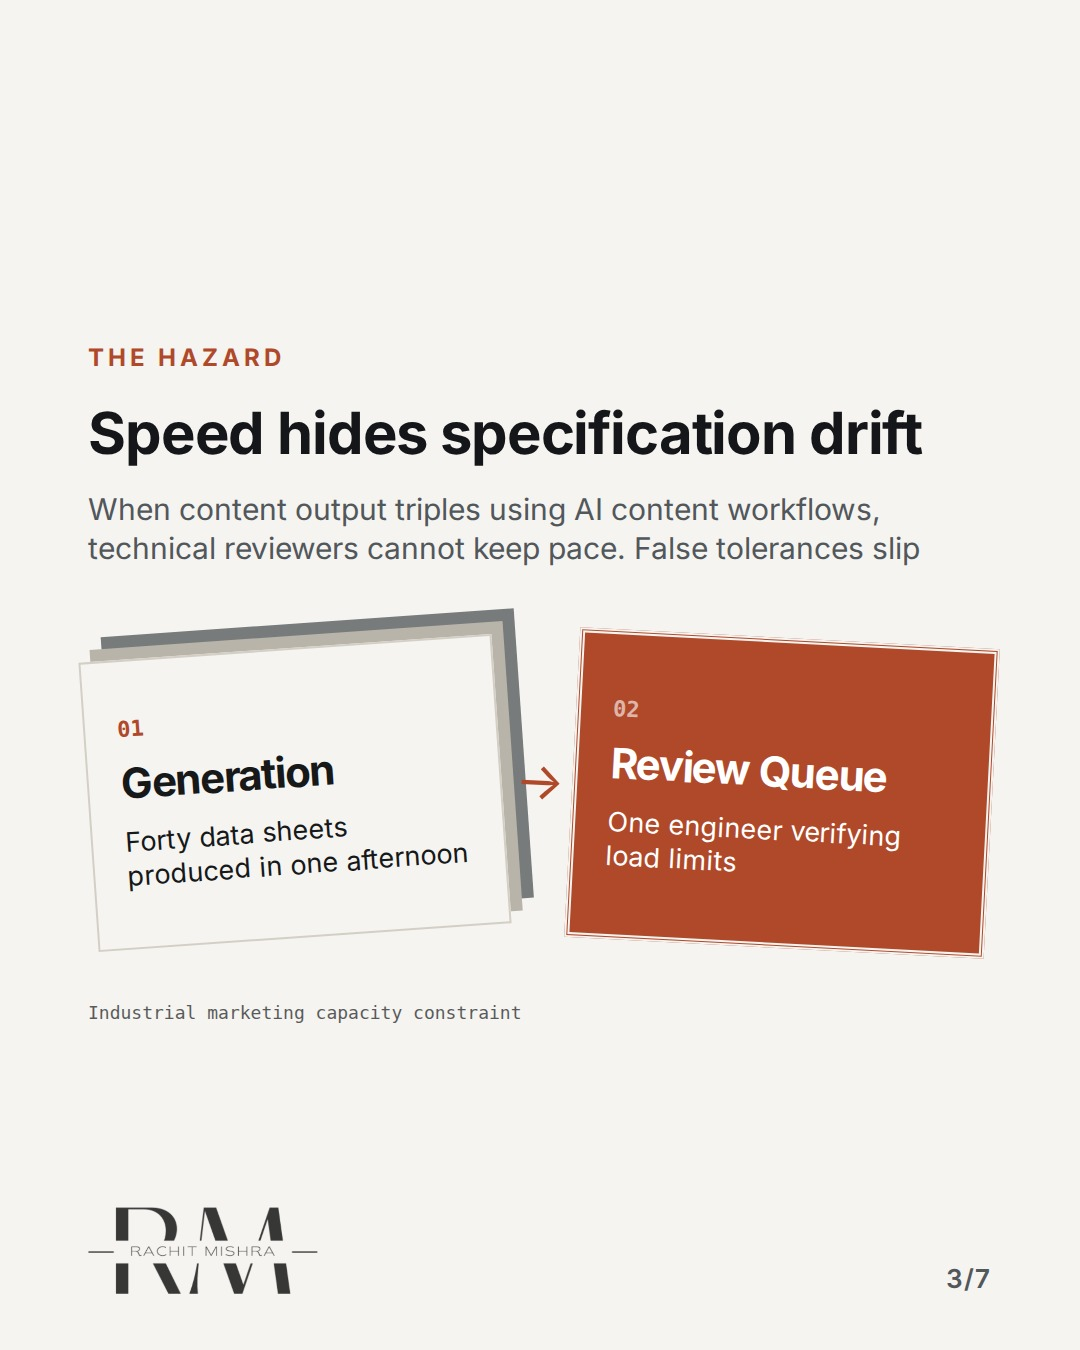
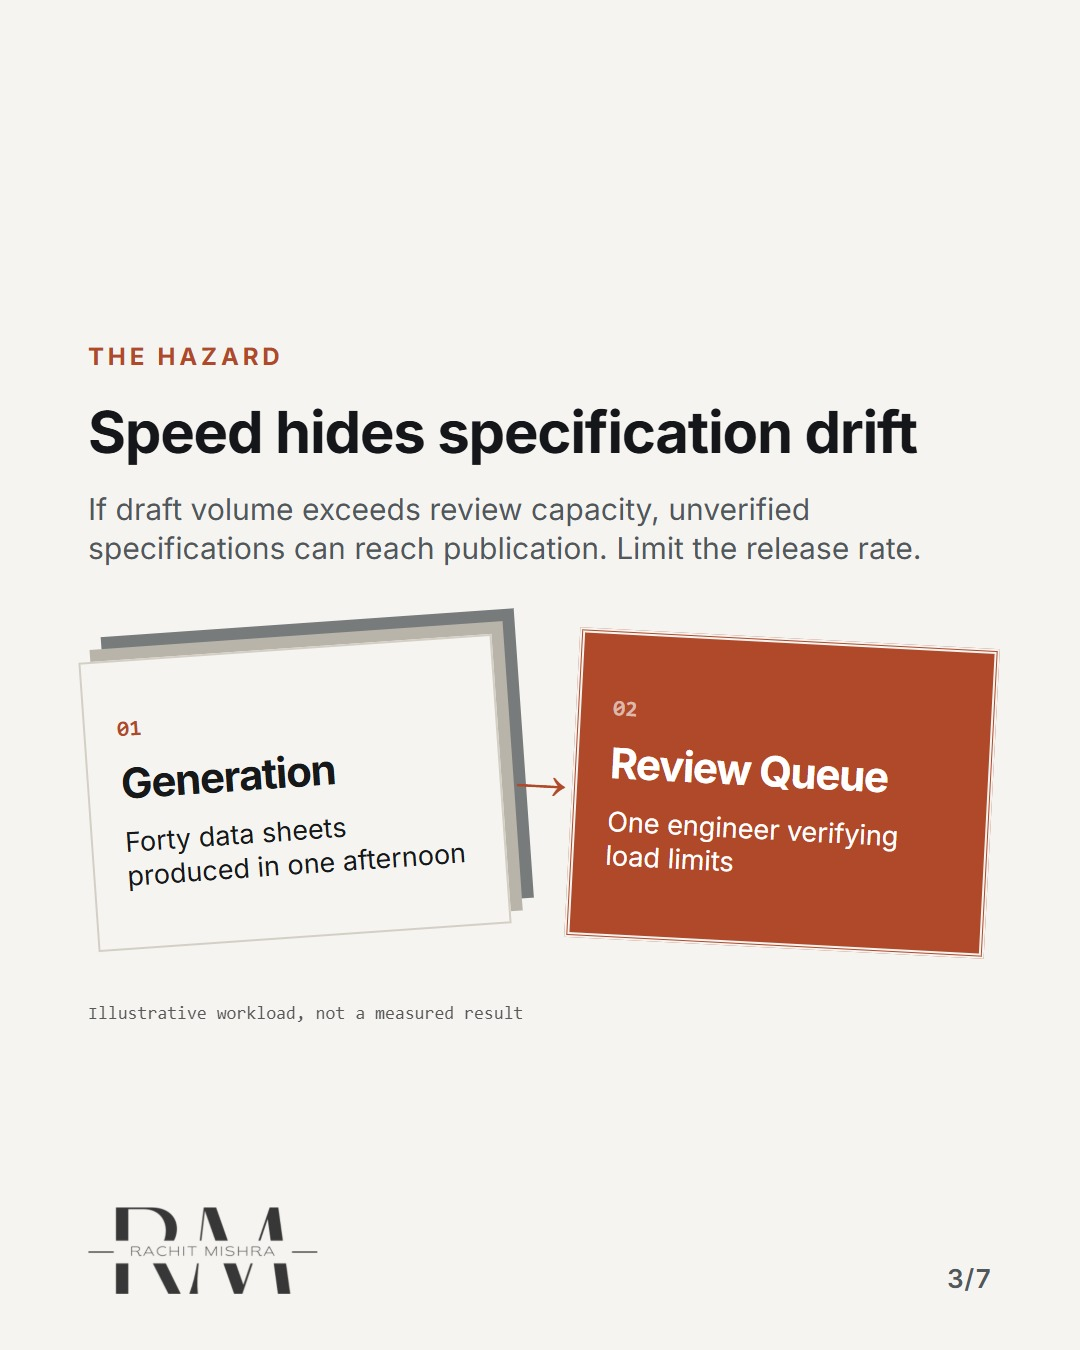
Review October batch and preserve complete generated copy

diff --git a/agent/generate.py b/agent/generate.py
@@ -85,8 +85,10 @@ Return only the JSON object. Schema:
 Non-negotiable opening contract: `hook` is a short tension-led claim, not a
 topic label. It must exactly equal Reel beat 1 `onscreen` text and be the first
 words of Reel beat 1 `voiceover`; for a carousel it must equal slide 1's
-headline. The caption must start with it. Put the primary keyword naturally
-elsewhere in the first 125 caption characters.
+headline. The caption's first line must contain ONLY the hook, followed by
+two newline characters. Put the primary keyword naturally in the next
+sentence, within the first 125 caption characters. Interior carousel bodies
+must be complete sentences of at most 120 characters; rewrite, never truncate.
 
 Do not use an unsupported number. Supply the required `evidence` object with
 the proof or usable framework that earns the claim.
@@ -120,42 +122,31 @@ def _normalise_generated_opening(post: dict) -> dict:
 
     Models commonly add punctuation, markdown or a preamble to an otherwise
     strong hook. That is not an editorial reason to throw away an entire
-    weekly batch. Keep the model's copy, but make the required first line
-    canonical and make sure its chosen search phrase appears early enough.
+    weekly batch. Keep the model's copy and make the first line canonical.
+    Keyword placement and shortening remain editorial correction tasks.
     """
     hook = str(post.get("hook") or "").strip()
     caption = str(post.get("caption") or "").strip()
-    keyword = str(post.get("primary_keyword") or "").strip()
     if hook:
         lines = caption.splitlines()
         while lines and not lines[0].strip():
             lines.pop(0)
         if lines:
-            # Replace rather than prepend: the model's opening paraphrase
-            # would otherwise repeat the hook and weaken the caption.
-            lines[0] = hook
+            opening = lines[0].strip().strip('*')
+            if opening.casefold().startswith(hook.casefold()):
+                remainder = opening[len(hook):].lstrip('.!? :;—–-')
+                lines[0:1] = [hook] + (["", remainder] if remainder else [])
+            else:
+                # Preserve different opening copy so correction can rewrite
+                # it without silently losing the first paragraph.
+                lines[0:0] = [hook, ""]
         else:
             lines = [hook]
         caption = "\n".join(lines).strip()
 
-        early_caption = re.sub(r"\s+", " ", caption[:125]).casefold()
-        if keyword and keyword.casefold() not in early_caption:
-            # A short bridge is more natural than a keyword label, and keeps
-            # the remaining model-written caption intact.
-            remainder = "\n".join(lines[1:]).strip()
-            bridge = f"In {keyword}, this is the decision that changes the outcome."
-            caption = f"{hook}\n\n{bridge}" + (f"\n\n{remainder}" if remainder else "")
         post["caption"] = caption
 
-    # Carousel bodies become text inside an infographic. Trim only the
-    # exceptional overflow at a word boundary so a single verbose sentence
-    # cannot block the whole batch after the model has already self-corrected.
-    if post.get("format") == "carousel":
-        for slide in post.get("slides") or []:
-            body = str(slide.get("body") or "").strip()
-            if len(body) > 120:
-                clipped = body[:120].rsplit(" ", 1)[0].rstrip(" ,;:-")
-                slide["body"] = clipped or body[:120]
+    # Never truncate prose to pass validation: the model must rewrite it.
     return post
 
 

diff --git a/tests/test_schema.py b/tests/test_schema.py
@@ -71,13 +71,19 @@ class HookContractTests(unittest.TestCase):
         post["caption"] = "**Stop paying agencies for asset volume.**\n\nJudgment beats asset count."
         post = _normalise_generated_opening(post)
         self.assertEqual(post["caption"].splitlines()[0], post["hook"])
-        self.assertIn(post["primary_keyword"], post["caption"][:125])
+        self.assertNotIn("this is the decision", post["caption"])
         self.assertIn("Judgment beats asset count.", post["caption"])
 
-    def test_generated_carousel_body_is_trimmed_for_visual_legibility(self):
+    def test_generated_carousel_body_is_preserved_for_editorial_correction(self):
         post = {"format": "carousel", "slides": [{"body": "word " * 30}]}
         post = _normalise_generated_opening(post)
-        self.assertLessEqual(len(post["slides"][0]["body"]), 120)
+        self.assertEqual(post["slides"][0]["body"], "word " * 30)
+
+    def test_opening_preserves_same_line_following_sentence(self):
+        post = reel_post()
+        post["caption"] = post["hook"] + ". AI agency retainers need a scope review."
+        result = _normalise_generated_opening(post)
+        self.assertEqual(result["caption"], post["hook"] + "\n\nAI agency retainers need a scope review.")
 
     def test_topic_label_is_rejected(self):
         post = reel_post()

diff --git a/content/queue/2026-10-05/wed-2000-aigovernanceformarketingteams/POST.md b/content/queue/2026-10-05/wed-2000-aigovernanceformarketingteams/POST.md
@@ -21,37 +21,37 @@
 
 **2.** The wrong gate
 ### IT security clears the tool, not the output
-Enterprise AI adoption usually stalls because legal and IT run a data audit. They check where prompts go. They never
+Data security approval does not verify generated product claims. Assign an owner for technical accuracy.
 
 ![slide 2](slide-02.jpg)
 
 **3.** The hazard
 ### Speed hides specification drift
-When content output triples using AI content workflows, technical reviewers cannot keep pace. False tolerances slip
+If draft volume exceeds review capacity, unverified specifications can reach publication. Limit the release rate.
 
 ![slide 3](slide-03.jpg)
 
 **4.** The standard
 ### Marketing automation needs strict boundary rules
-Generative tools excel at syntax but fail at physics. Without negative constraints on technical claims, teams end up
+Define which tasks AI may assist with. Require approved source documents for every technical claim.
 
 ![slide 4](slide-04.jpg)
 
 **5.** The protocol
-### Four checks before any AI copy goes live
-Run every automated draft through a mandatory verification sequence before publication. Skip one, and your liability
+### Two checks before any AI copy goes live
+Check technical claims against approved documents, then check tone. Record who approved the final draft.
 
 ![slide 5](slide-05.jpg)
 
 **6.** The threshold
 ### Governance is a queueing problem
-Brand governance is not a design problem or a legal restriction. It is managing the velocity of unverified output
+Match publication volume to the time available for technical review. Keep unverified drafts out of the release queue.
 
 ![slide 6](slide-06.jpg)
 
 **7.** The principle
 ### AI governance is a verification pipeline
-The point of AI governance for marketing teams is not restricting tools. It is matching publication speed to the actual
+Treat generated copy as a draft. Give reviewers enough time to verify it before publication.
 
 ![slide 7](slide-07.jpg)
 
@@ -60,7 +60,7 @@ The point of AI governance for marketing teams is not restricting tools. It is m
 ```
 AI governance is failing your marketing team.
 
-In AI governance for marketing teams, this is the decision that changes the outcome.
+AI governance for marketing teams needs an owner for technical accuracy.
 
 Most enterprises treat AI risk as an IT issue. They worry about data privacy while their teams use marketing automation to generate unverified technical specifications for heavy machinery.
 
@@ -69,8 +69,6 @@ When a consumer brand hallucinates a feature, customer support handles it. When 
 Set the boundary rules before you scale the output.
 
 Send this to whoever is defending AI content standards this quarter.
-
-[enterprise ai adoption, ai governance for marketing teams, marketing operations, b2b marketing]
 
 #aimarketing #martech #aigovernance
 ```

diff --git a/content/queue/2026-10-05/sat-1030-defending-a-marketing-budget/POST.md b/content/queue/2026-10-05/sat-1030-defending-a-marketing-budget/POST.md
@@ -21,31 +21,31 @@
 
 **2.** The finance translation
 ### Reach cannot be converted into cash flow on demand.
-When a CFO asks where last quarter's impressions went, saying brand recall will not stop a budget cut. Finance measures
+Connect awareness to commercial outcomes. Reach alone cannot explain cash flow or protect a budget.
 
 ![slide 2](slide-02.jpg)
 
 **3.** The sales disconnect
 ### Sales teams do not care about top-of-funnel volume.
-More leads from unqualified accounts only create administrative drag for field engineers. Sales wants fewer, warmer
+Unqualified leads create work for field engineers. Measure qualified opportunities as well as lead volume.
 
 ![slide 3](slide-03.jpg)
 
 **4.** The pivot
 ### Tie your brand spend to procurement risk reduction.
-Industrial buyers do not buy because they saw an ad. They buy because regulatory compliance and vendor risk are lower
+Show how your work helps buyers assess compliance, delivery reliability and vendor risk.
 
 ![slide 4](slide-04.jpg)
 
 **5.** The budget defense
 ### Stop defending marketing as an investment in growth.
-Defend it as insurance against pricing pressure. Commodity suppliers without brand equity lose two points of margin on
+Explain the growth case and the risk case. Use your own deal evidence to show where marketing protects margin.
 
 ![slide 5](slide-05.jpg)
 
 **6.** How to apply it
 ### Three questions to change your budget review.
-Remove impressions from your quarterly deck. Replace them with tender inclusion rates, specification lock-ins, and
+Pair reach with tender inclusion, specification approval and sales cycle data. State what each metric can prove.
 
 ![slide 6](slide-06.jpg)
 
@@ -60,15 +60,13 @@ Defend marketing budget by showing how it lowers procurement friction for the bu
 ```
 Awareness is not a metric that protects budget.
 
-In defending a marketing budget, this is the decision that changes the outcome.
+Defending a marketing budget means connecting activity to commercial outcomes.
 
 Most in-house marketers lose their allocation during lean quarters because they report impressions to a committee that only tracks working capital and tender conversion.
 
-When you defend defending a marketing budget with reach, you invite a cut. Defend it with risk reduction instead.
+Use reach to explain exposure. Use deal and customer evidence to explain commercial impact.
 
 Send this to whoever is defending the brand budget this quarter.
-
-[b2b marketing, industrial branding, marketing budget, stakeholder management]
 
 #marketingleadership #inhousemarketing #brandgovernance
 ```

diff --git a/content/queue/2026-10-05/sun-1030-salescollateralgovernance/POST.md b/content/queue/2026-10-05/sun-1030-salescollateralgovernance/POST.md
@@ -60,7 +60,7 @@ Send this to whoever is setting the commercial marketing roadmap this quarter.
 ```
 Sales collateral almost never closes B2B deals.
 
-In working with sales as a marketer, this is the decision that changes the outcome.
+Working with sales as a marketer starts with the buyer's unanswered questions.
 
 When you ask a commercial head what marketing materials they need, they will usually ask for a fresh brochure or a custom deck for next week's meeting.
 
@@ -73,8 +73,6 @@ If marketing functions as an internal design agency for commercial teams, you sp
 Your job is not to make sales reps feel comfortable in the meeting. It is to make your product easier to defend inside the buyer's organization.
 
 Send this to whoever is setting the commercial marketing roadmap this quarter.
-
-[working with sales as a marketer, b2b marketing strategy, brand governance, in-house marketing, sales enablement]
 
 #marketingleadership #inhousemarketing #brandgovernance #cmo #b2bmarketing
 ```

diff --git a/content/queue/2026-10-05/mon-1900-commodity-brand-positioning/POST.md b/content/queue/2026-10-05/mon-1900-commodity-brand-positioning/POST.md
@@ -60,17 +60,13 @@ Send this to whoever is tired of arguing about price in B2B procurement meetings
 ```
 A commodity has no features to sell.
 
-In how to brand a commodity product, this is the decision that changes the outcome.
+Learning how to brand a commodity product starts with the buyer's delivery risk.
 
 Most industrial marketers double down on technical datasheets. That fails because the procurement committee already has the ISO certificate on file.
 
 They are not buying better steel. They are buying the elimination of plant downtime.
 
 Positioning a commodity means making your competitors look like a logistical gamble.
-
-[b2b branding, industrial marketing, brand strategy, manufacturing marketing]
-
-#b2bmarketing #industrialmarketing #brandstrategy
 
 #b2bmarketing #industrialmarketing #brandstrategy
 ```

diff --git a/content/queue/2026-10-05/thu-1700-corporate-reputation-cost-audit/POST.md b/content/queue/2026-10-05/thu-1700-corporate-reputation-cost-audit/POST.md
@@ -34,15 +34,13 @@
 ```
 Reputation is priced in before they call you.
 
-In corporate reputation, this is the decision that changes the outcome.
+Corporate reputation shapes the risks a buyer sees before the first meeting.
 
 When a procurement committee reviews an enterprise vendor, they do not evaluate campaign creative. They look at regulatory filings, plant safety incidents, and community dispute records from years prior.
 
 Communication doesn't create credibility. It gives credibility a voice once the operational proof is already in place.
 
 Send this to whoever is defending your corporate reputation budget against short-term campaign requests this quarter.
-
-[corporate reputation, stakeholder trust, corporate communications, procurement risk]
 
 #corporatecommunications #reputation #publicrelations
 ```

diff --git a/content/queue/2026-10-05/wed-0830-corporate-reputation-audit-checklist/POST.md b/content/queue/2026-10-05/wed-0830-corporate-reputation-audit-checklist/POST.md
@@ -34,15 +34,13 @@
 ```
 Reputation dies in procurement.
 
-In corporate reputation management, this is the decision that changes the outcome.
+Corporate reputation management includes the checks behind every supplier approval.
 
 Most industrial firms spend weeks polishing annual sustainability reports while leaving sub-tier supplier onboarding to manual spreadsheets. When a regulatory breach happens two levels down, the press release does not save the contract.
 
 Trust is structural, not rhetorical.
 
 Send this to whoever oversees vendor compliance and risk this quarter.
-
-[corporate reputation management, corporate communications, stakeholder trust, procurement risk, regulatory compliance]
 
 #corporatecommunications #reputation #publicrelations
 ```

diff --git a/content/queue/2026-10-05/mon-0830-commoditybrandpremium/POST.md b/content/queue/2026-10-05/mon-0830-commoditybrandpremium/POST.md
@@ -46,8 +46,6 @@ Marketing gives that operational reality a voice. It cannot replace it.
 
 Send this to whoever is defending your pricing strategy in the commercial review this week.
 
-[how to brand a commodity product, industrial marketing, b2b brand strategy, manufacturing, pricing power]
-
 #b2bmarketing #industrialmarketing #b2bbranding
 ```
 

diff --git a/content/queue/2026-10-05/fri-0830-generative-engine-optimization-b2b/POST.md b/content/queue/2026-10-05/fri-0830-generative-engine-optimization-b2b/POST.md
@@ -44,8 +44,6 @@ Marketing copy targets human perception. Machine retrieval requires structured e
 
 Send this to the team managing your website architecture and search strategy.
 
-[generative engine optimisation for b2b, ai in marketing, enterprise martech, b2b search, technical seo]
-
 #aimarketing #martech #b2bmarketing
 ```
 

diff --git a/content/queue/2026-10-05/fri-1900-checksbeforeaicopygoeslive/POST.md b/content/queue/2026-10-05/fri-1900-checksbeforeaicopygoeslive/POST.md
@@ -66,8 +66,6 @@ Governance is not about making copy sound human. It is about protecting the marg
 
 Send this to whoever is setting up your marketing automation workflow this quarter.
 
-[checks before AI copy goes live, AI governance, B2B branding, industrial marketing]
-
 #aigovernance #b2bmarketing #marketingoperations
 ```
 

diff --git a/content/queue/2026-10-05/tue-1900-ai-adoption-in-large-company/POST.md b/content/queue/2026-10-05/tue-1900-ai-adoption-in-large-company/POST.md
@@ -43,8 +43,6 @@ Software without governance is just expensive noise.
 
 Send this to whoever is defending the new software budget this quarter.
 
-[ai adoption in a large company, martech stack, marketing technology, enterprise governance]
-
 #aimarketing #martech #b2bmarketing
 ```
 
